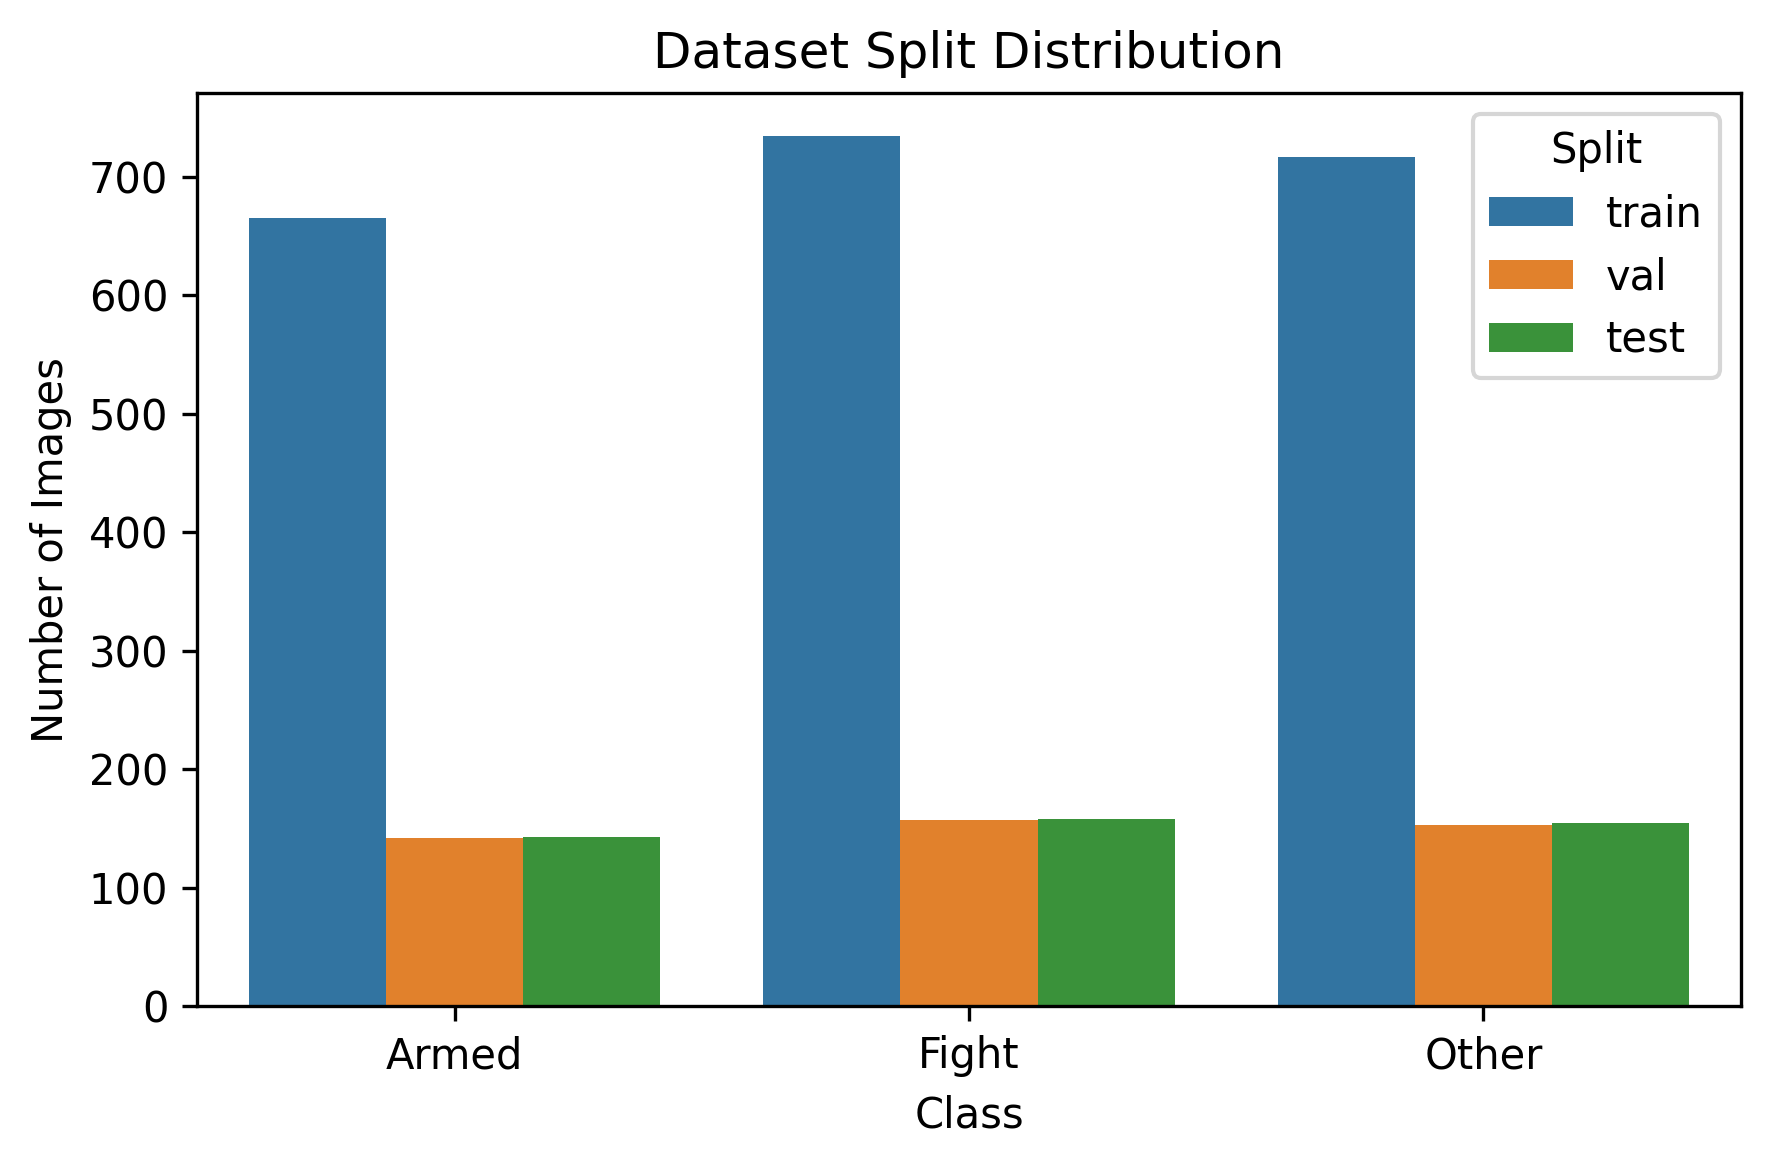
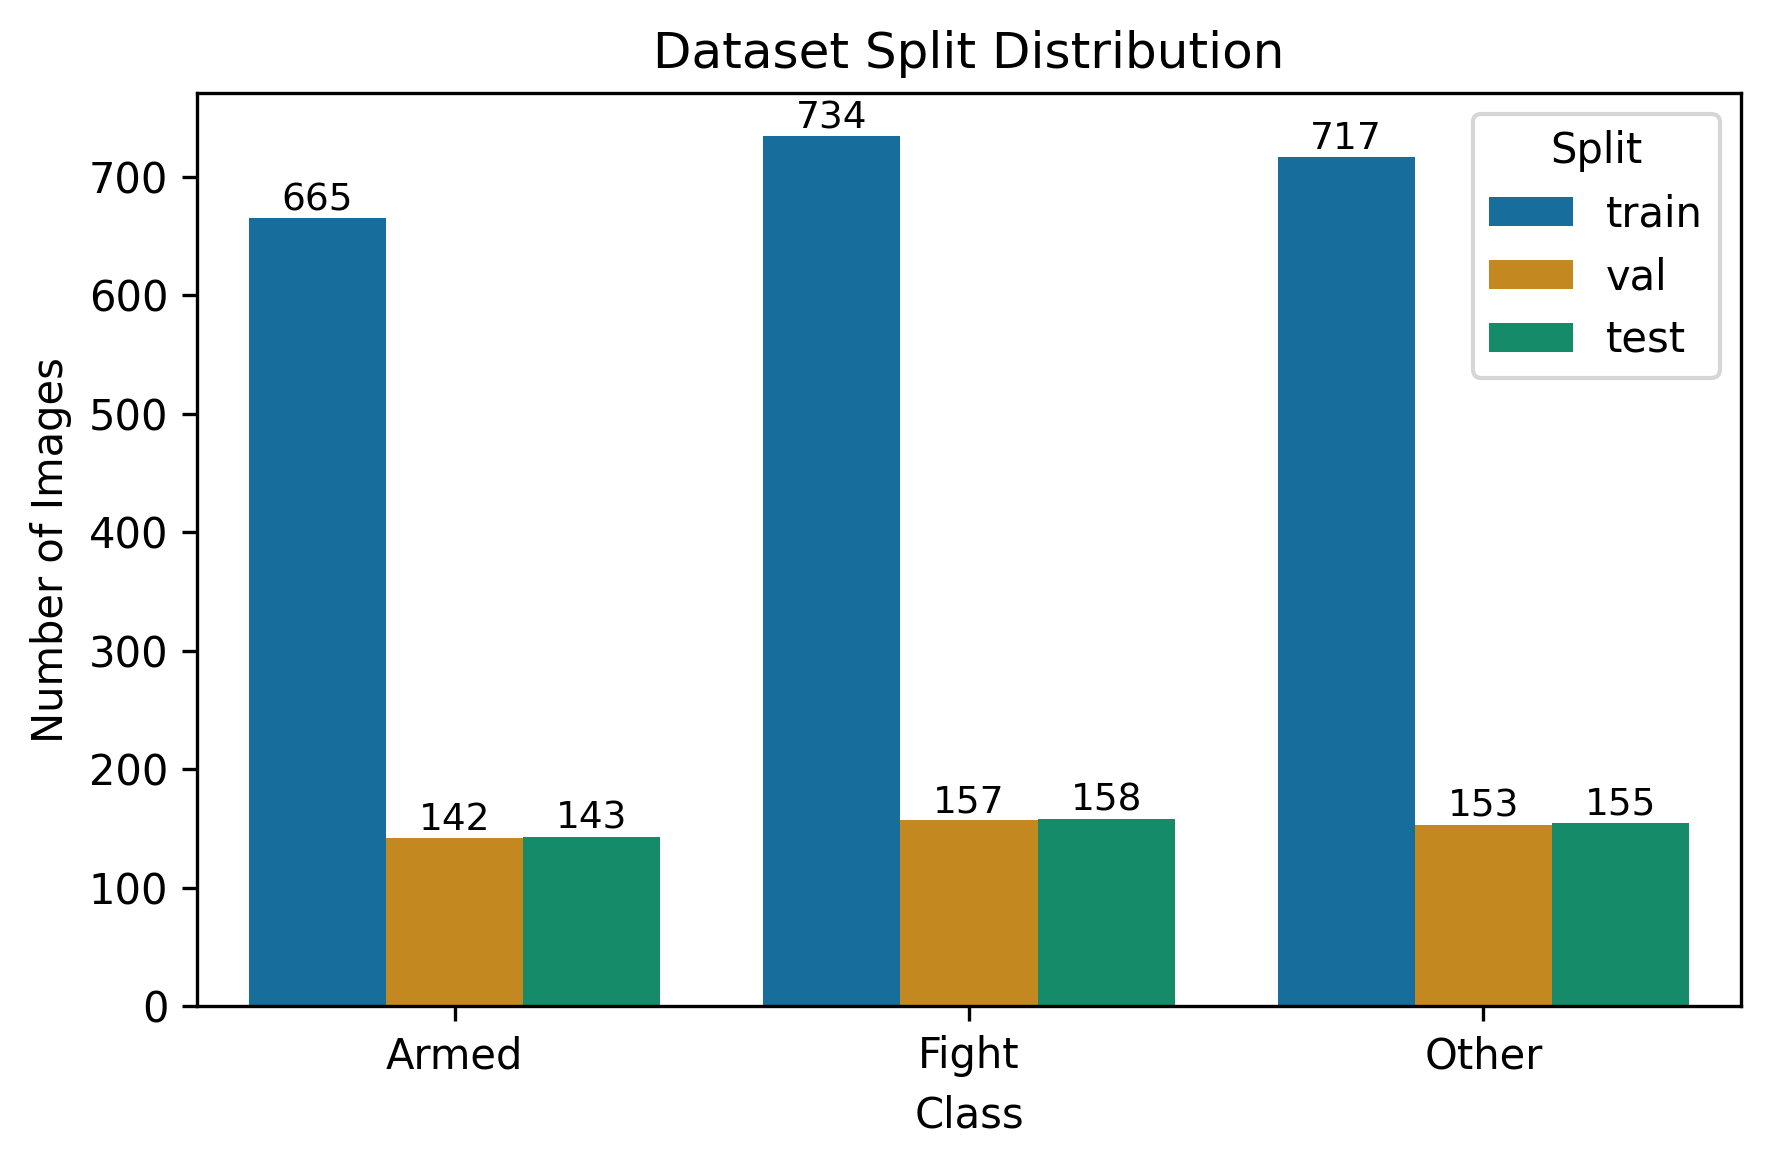
update/ final CSC

diff --git a/modules/charts.py b/modules/charts.py
@@ -11,7 +11,7 @@ def sub_plots(row, col, pos, data, x, y, x_label, y_label, title):
     # show all plots
     for y_name in y:
         # line plot
-        sns.lineplot(data=data, x=x, y=y_name, label=y_name, palette="colorblind")
+        sns.lineplot(data=data, x=x, y=y_name, label=y_name)
 
     # show legend
     plt.legend()